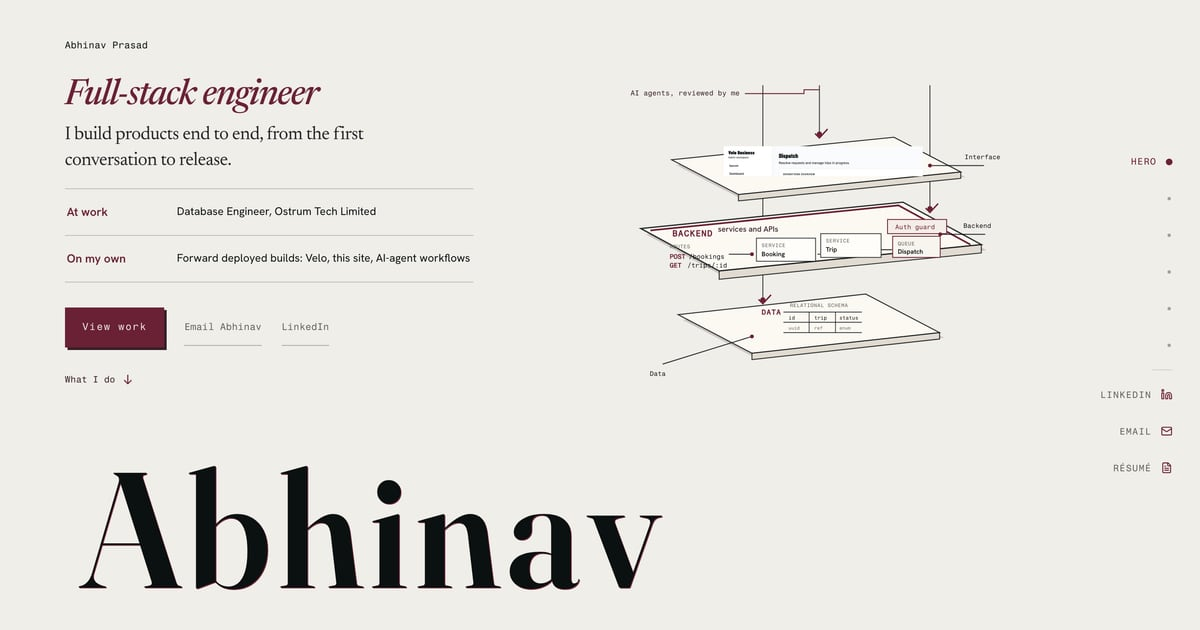
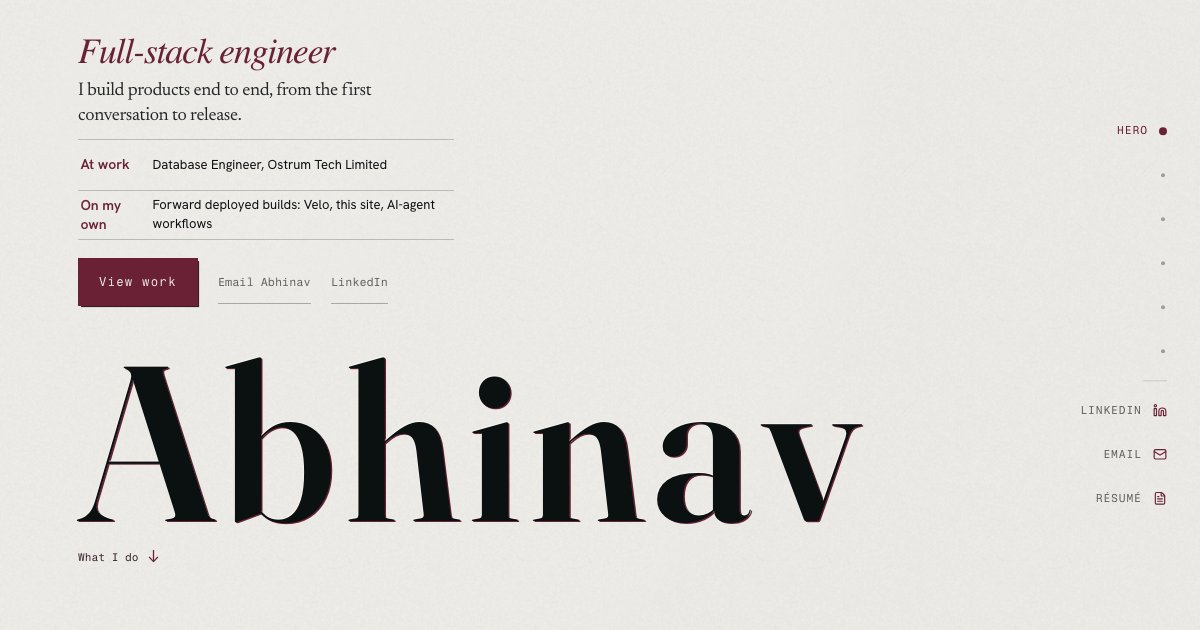
chore(content): recapture portfolio screens and share images from the new first screen

diff --git a/tests/seo.spec.ts b/tests/seo.spec.ts
@@ -23,8 +23,8 @@ test("serves recruiter-readable content and structured data in the initial HTML"
   await page.goto("/");
   const homeOgImage = await page.locator('meta[property="og:image"]').getAttribute("content");
   const homeTwitterImage = await page.locator('meta[name="twitter:image"]').getAttribute("content");
-  expect(new URL(homeOgImage!, page.url()).pathname).toBe("/og-image.jpg");
-  expect(homeTwitterImage).toBe(homeOgImage);
+  expect(new URL(homeOgImage!, page.url()).pathname).toBe("/opengraph-image.jpg");
+  expect(new URL(homeTwitterImage!, page.url()).pathname).toBe("/og-image.jpg");
   const jsonLd = await page
     .locator('#portfolio-structured-data[type="application/ld+json"]')
     .textContent();

diff --git a/tests/portfolio-responsive.spec.ts b/tests/portfolio-responsive.spec.ts
@@ -546,7 +546,7 @@ test("project cards keep their numerals, artwork, copy alignment, and current co
   await expect(portfolio.locator("svg[viewBox='0 0 116 92']")).toBeVisible();
   await expect(portfolio.locator("[data-work-media] img")).toHaveAttribute(
     "alt",
-    "A diagram showing typed project content feeding the homepage and project pages"
+    "Portfolio homepage first screen with the pressed Abhinav wordmark"
   );
   await expect(portfolio.locator("[data-work-media] img")).toHaveCSS("object-fit", "contain");
 
